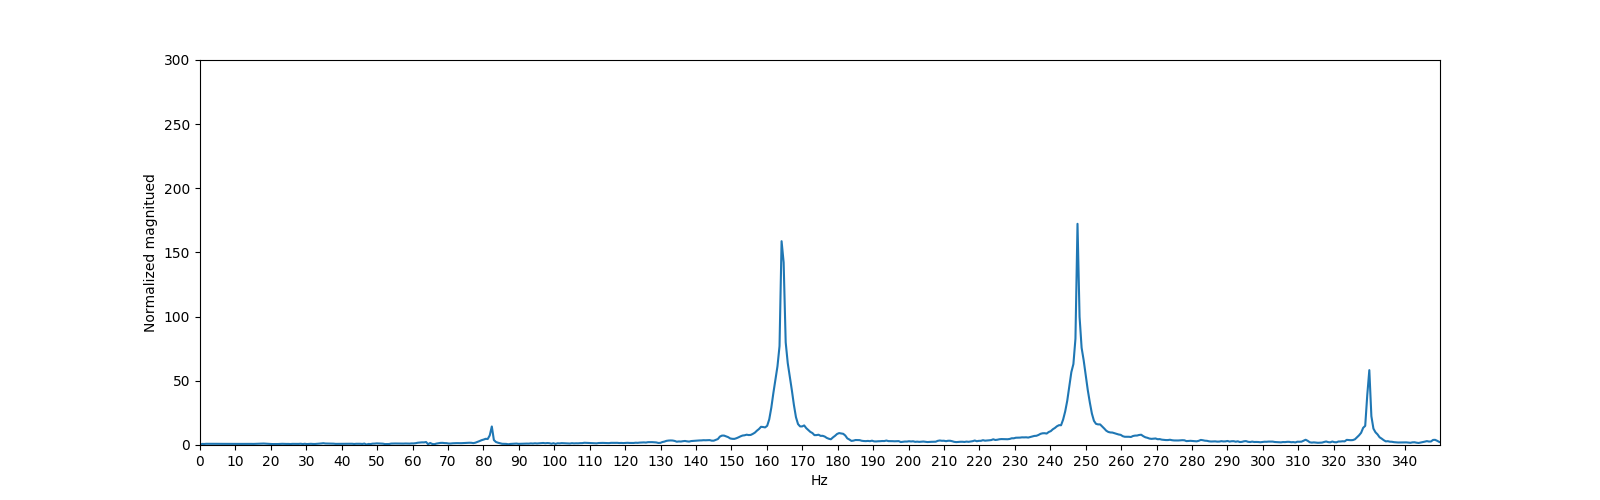
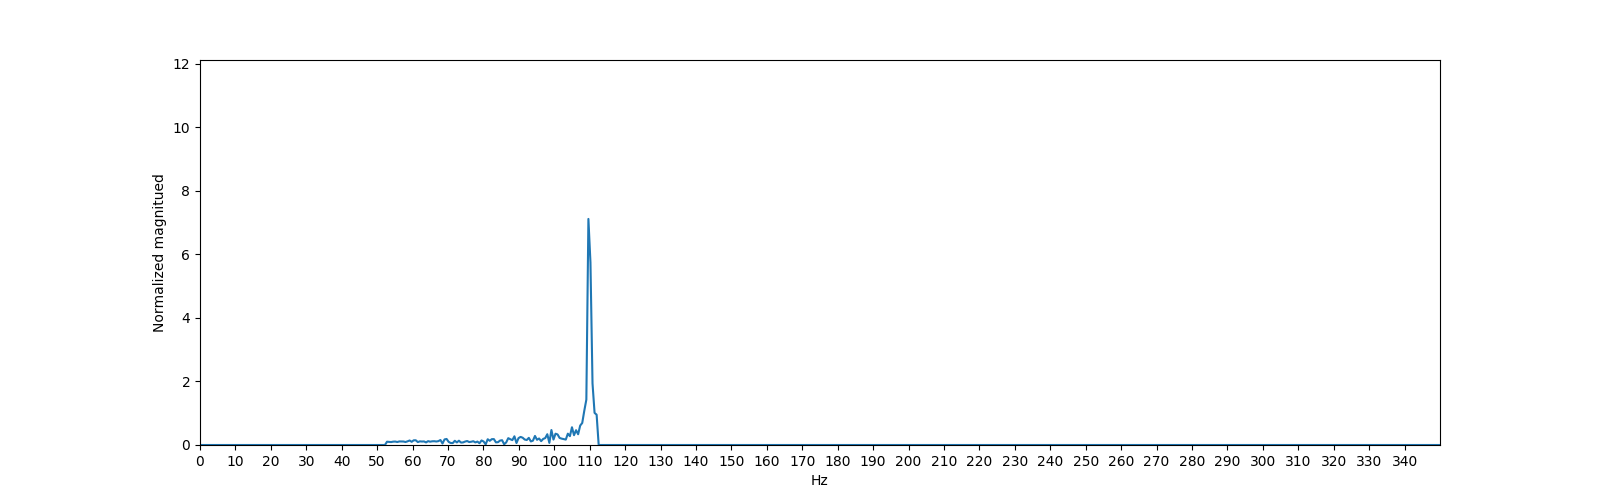
Sending json as response

diff --git a/client/src/components/Record.js b/client/src/components/Record.js
@@ -67,7 +67,7 @@ class Record extends Component {
             <div className="record-wrapper row">
                 <header>
                     <h1>
-                        Welcome to GuitarTuner.
+                        Welcome to GuitarTuner
                     </h1>
                     <h3>Select the string you are tuning</h3>
                 </header>

diff --git a/client/src/components/TransmitAudio.js b/client/src/components/TransmitAudio.js
@@ -14,11 +14,7 @@ class TransmitAudio extends React.Component {
         console.log("This is the file which is being sent in the POST request: ", newState)
         this.uploadFile(newState)
         //this.postTest()
-
-
     }
-
-
 
     postTest() {
         fetch('http://127.0.0.1:5000/testpost', {

diff --git a/server/frequency_api.py b/server/frequency_api.py
@@ -1,9 +1,9 @@
 #!/usr/bin/python3
 import audioread
-from flask import Flask, request #import main Flask class and request object
+from flask import Flask, request  # import main Flask class and request object
 from flask_cors import CORS
 import logging
-import base64 # For decoding base64 string
+import base64  # For decoding base64 string
 import contextlib
 import magic
 import pydub
@@ -15,20 +15,20 @@ import os
 import sys
 import numpy as np
 import matplotlib
+
 matplotlib.use('Agg')
 import matplotlib.pyplot as plt
 from tempfile import TemporaryFile
 import sound_analyis
-
+import json
 
 # sys.path.append('/ffmpeg-4.2.2')
-#!/usr/bin/env python
+# !/usr/bin/env python
 
 
 # from ffprobe import FFProbe
 
 from subprocess import call
-
 
 from werkzeug.utils import secure_filename
 
@@ -38,20 +38,15 @@ UPLOAD_FOLDER = './uploads'
 
 ALLOWED_EXTENSIONS = {'mp3', 'wav', 'png', 'jpg', 'jpeg', 'gif'}
 
-
-
 logging.basicConfig(level=logging.INFO)
 
 logger = logging.getLogger('HELLO WORLD')
 
-
-app = Flask(__name__) #create the Flask app
+app = Flask(__name__)  # create the Flask app
 app.config['UPLOAD_FOLDER'] = UPLOAD_FOLDER
 app.secret_key = 'super secret key'
 
-
 CORS(app)
-
 
 
 def allowed_file(filename):
@@ -59,57 +54,55 @@ def allowed_file(filename):
            filename.rsplit('.', 1)[1].lower() in ALLOWED_EXTENSIONS
 
 
-
 # Get the blob of type "audio/webm;codecs=opus"
-@app.route('/audio_record', methods=['POST','GET'])
+@app.route('/audio_record', methods=['POST', 'GET'])
 def upload_file():
-    #print("OKKKK")
+    # print("OKKKK")
     if request.method == 'POST':
-        #print("request is a post request")
+        # print("request is a post request")
         # check if the post request has the file part
         file = request.files['base64data']
         print(file)
         audio = pydub.AudioSegment.from_mp3(file)
-        segment_duration = len(audio) # important property for FFT analyis
+        segment_duration = len(audio)  # important property for FFT analyis
         print("Segment duration", segment_duration)
         samples = audio.get_array_of_samples()
         samples = np.array(samples)
         print(len(samples))
-        plt.figure(figsize=(15,5))
+        plt.figure(figsize=(15, 5))
         plt.plot(samples)
         plt.savefig("plot")
         outfile = TemporaryFile()
         np.save(outfile, samples)
         print(samples)
 
-        np.savetxt('segment_duration.out',[segment_duration])
-        np.savetxt('test.out', samples, delimiter=',')
-
+        # np.savetxt('segment_duration.out',[segment_duration])
+        # np.savetxt('test.out', samples, delimiter=',')
 
         # FFT
-        analysis = sound_analyis.Sound_analyis(samples,segment_duration,"E2")
-        analysis.fft_transform()
+        analysis = sound_analyis.Sound_analyis(samples, segment_duration, "E2")
+        max_index, desired_freq = analysis.fft_transform()
 
-        
-        # fft_transform(samples)
-        
+        comment = ''
+        if (max_index - desired_freq < 0):
+            tighten = True
+            comment = f"Tighten string. Desired was {desired_freq}. Your was {max_index}"
+        else:
+            tighten = False
+            comment = "Loosen string"
 
+        # a Python object (dict):
+        response_dict = {
+            "desired_freq": desired_freq,
+            "actual_freq": max_index,
+            "tighten": tighten,
+            "comment": comment
+        }
+        response = json.dumps(response_dict)
+        return response
 
-
-        #if 'base64data' not in request.files:
-            #print("File was not here....")
-            #flash('No file part')
-            #return redirect(request.url)
-        # file = request.files['base64data'].filename
-        return 'okkkkk'
-
-        # message = message_bytes.decode('ascii')
-        # print(message)
-        # if user does not select file, browser also
-        # submit an empty part without filename
-        
-
-        return '''
+        '''
+        return 
             <!doctype html>
             <title>Upload new File</title>
             <h1>Upload new File</h1>
@@ -117,7 +110,9 @@ def upload_file():
               <input type=file name=file>
               <input type=submit value=Upload>
             </form>
-            '''
+            
+        '''
+
 
 def save_record():
     if request.method == 'GET':
@@ -134,15 +129,11 @@ def save_record():
         return redirect(url_for('uploaded_file',
                                 filename=filename))
 
-
-
-
     print(type(file))
     print(file)
-
 
     return "OK"
 
 
 if __name__ == '__main__':
-    app.run(debug=True, port=5000) #run app in debug mode on port 5000
+    app.run(debug=True, port=5000)  # run app in debug mode on port 5000

diff --git a/server/sound_analyis.py b/server/sound_analyis.py
@@ -57,7 +57,7 @@ class Sound_analyis:
         plt.xlabel("Hz")
         plt.ylabel("Normalized magnitued")
         plt.xlim(0, MAX_GUITAR_FREQUENCY)
-        plt.ylim(0,300)
+        plt.ylim(0,max_val+5)
         plt.xticks(np.arange(0, MAX_GUITAR_FREQUENCY, 10))
         plt.margins(0)
 
@@ -73,13 +73,15 @@ class Sound_analyis:
         LOWER_LIMIT = (self.freq_limit - 30)
         print("UPPER_LIMIT:", UPPER_LIMIT )
         print("LOWER_LIMIT:", LOWER_LIMIT )
+        #indexes = np.nonzero((f > UPPER_LIMIT) & (f < LOWER_LIMIT))
 
-        indexes = [(f > (UPPER_LIMIT)) & (f < (LOWER_LIMIT))] # Look for the frequency magnitude peak in only the expected ranges
+        indexes = [(f > (UPPER_LIMIT)) | (f < (LOWER_LIMIT))] # Look for the frequency magnitude peak in only the expected ranges
         # print("THIS IS INDEXES", indexes)
         for i, index in enumerate(indexes[0]):
-            if (index == True):
+            if (index):
                 y_norm[i] = 0
             else:
+                print(index)
                 continue
 
         max_value = np.max(y_norm)
